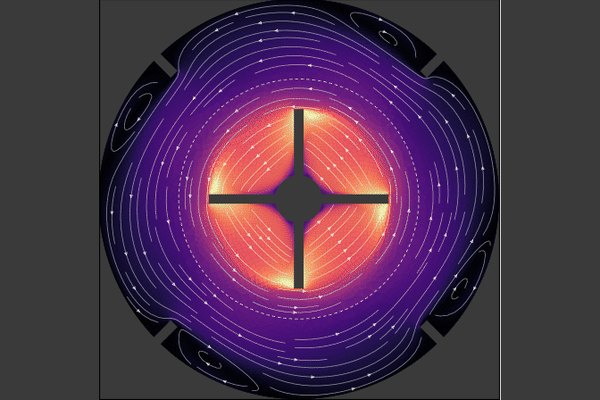
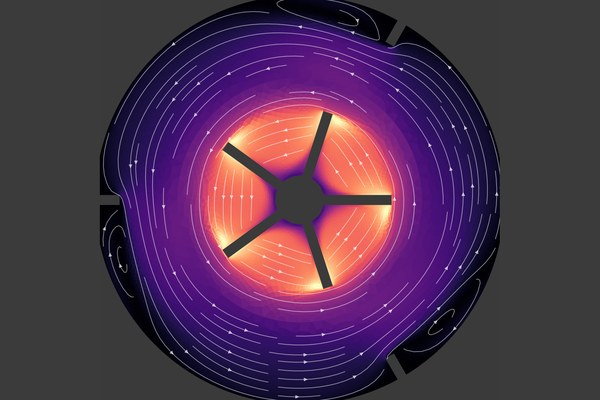
Gallery 100 and README tile: five-blade turbulent stirred vessel
Claude-Session: https://claude.ai/code/session_012imjwoHunGbnQV7skHWGB5

Changed region(s): [[0.15, 0.0, 0.84, 1.0]]

diff --git a/examples/studies/mixer.py b/examples/studies/mixer.py
@@ -190,7 +190,7 @@ def tile(fields, dst, *opts):
     grey[:, int(0.85 * px.shape[1]):] = False
     ys = np.where(grey.sum(axis=1) > 20)[0]      # not the grey of the text
     xs = np.where(grey.sum(axis=0) > 20)[0]
-    box = im.crop((xs.min() + 4, ys.min() + 4, xs.max() - 4, ys.max() - 4))
+    box = im.crop((xs.min() + 10, ys.min() + 10, xs.max() - 10, ys.max() - 10))
     w, h = box.size
     if w / h > 1.5:
         cut = int((w - 1.5 * h) / 2)

diff --git a/docs/gallery/flow.md b/docs/gallery/flow.md
@@ -1000,9 +1000,10 @@ Every turbulence model runs with `[[mrf]]` and with both sliding meshes:
 the rotor carries k, ε, ω, ζ and f and their old time levels with it, and
 the wall distance of the turning rotor is updated in every step.
 
-<img src="../figures/gallery/mixer_turbulent_mrf.png" alt="The turbulent stirred vessel in the moving reference frame: the speed |u| with streamlines, highest at the blade tips and turning nearly as a solid body between the blades; the turbulent kinetic energy k, highest at the blade tips and in a ring around them; and the eddy viscosity ratio ν_t/ν, up to 150 in the swirl of the stator and lower in the blade passages" width="800" height="256">
+<img src="../figures/gallery/mixer_turbulent_mrf.png" alt="The turbulent five-blade stirred vessel in the moving reference frame: the speed |u| with streamlines, highest at the blade tips and turning nearly as a solid body between the blades; the turbulent kinetic energy k, highest at the blade tips and in a ring around them; and the eddy viscosity ratio ν_t/ν, up to 150 in the swirl of the stator and lower in the blade passages" width="800" height="256">
 
-The frame (16 326 cells, 337 iterations of the coupled solver, 27 s). The
+The frame (four-blade case file: 16 326 cells, 337 iterations of the coupled
+solver, 27 s; the five-blade vessel of the images converges in 389). The
 fluid between the blades turns nearly with them (highest speed 0.45 m/s,
 at the tips); k is highest at the blade tips (7.4·10⁻³ m²/s² at r = 45 mm)
 and in the ring of the tip vortices; ν_t/ν reaches 150 in the swirl of the
@@ -1012,10 +1013,11 @@ the fluid turns almost as a solid body. Across the interface (dashed) the
 convecting velocity changes from **w** to **c**, as the steady frame
 assumes, and ν_t changes steeply there.
 
-<img src="../figures/gallery/mixer_turbulent_sliding.png" alt="The turbulent stirred vessel on the sliding mesh after three revolutions from rest: the speed |u|, the rotor spun up and the stator still nearly at rest with slow eddies between the baffles; k in a ring around the blade tips; ν_t/ν up to 70 in that ring" width="800" height="256">
+<img src="../figures/gallery/mixer_turbulent_sliding.png" alt="The turbulent five-blade stirred vessel on the sliding mesh after three revolutions from rest: the speed |u|, the rotor spun up and the stator still nearly at rest; k in a ring around the blade tips; ν_t/ν up to 70 in that ring" width="800" height="256">
 
 The sliding mesh after three revolutions (1 508 steps of 1.25 ms, BDF2,
-10 min on four cores; the laminar run of entry 98 takes 7). The rotor has
+10 min on four cores; the laminar run of entry 98 takes 7; the numbers below
+are from the four-blade case file). The rotor has
 spun up (0.46 m/s at the tips), but the stator is still nearly at rest
 (0.001 m/s beyond r = 70 mm): the turbulence lives in the shear layer
 between the rotor and the resting fluid (k up to 6.3·10⁻³ m²/s² at the tips,
